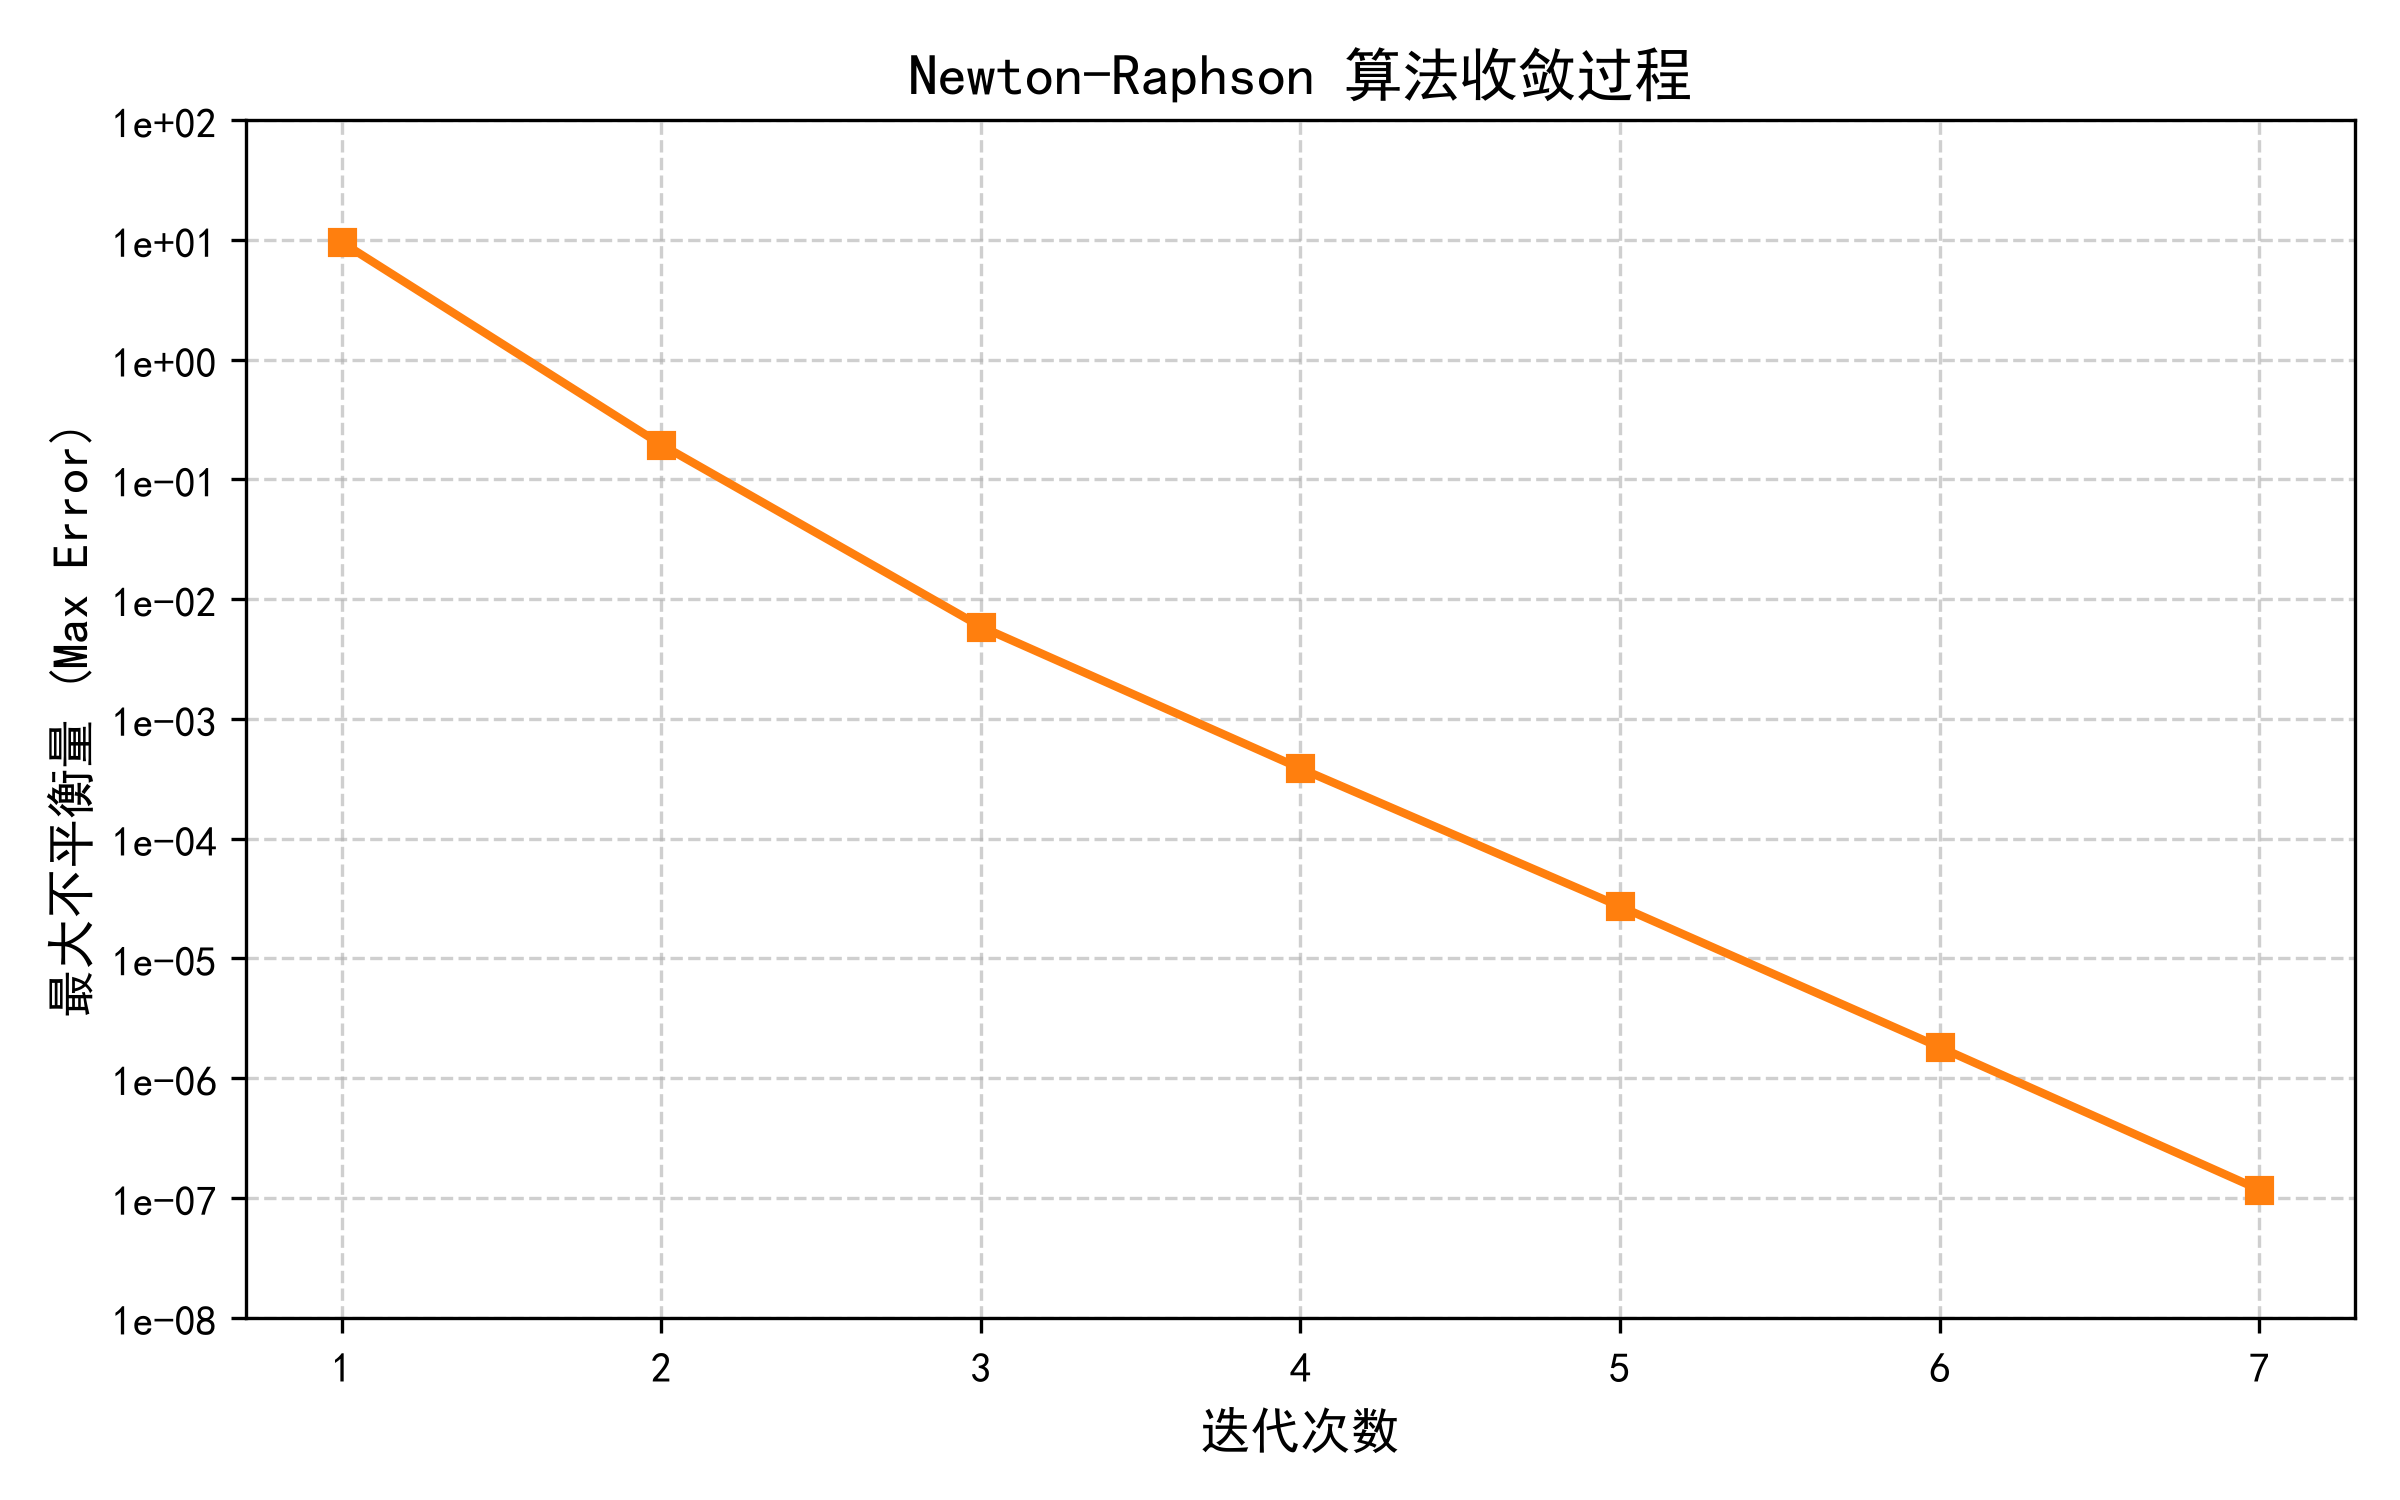
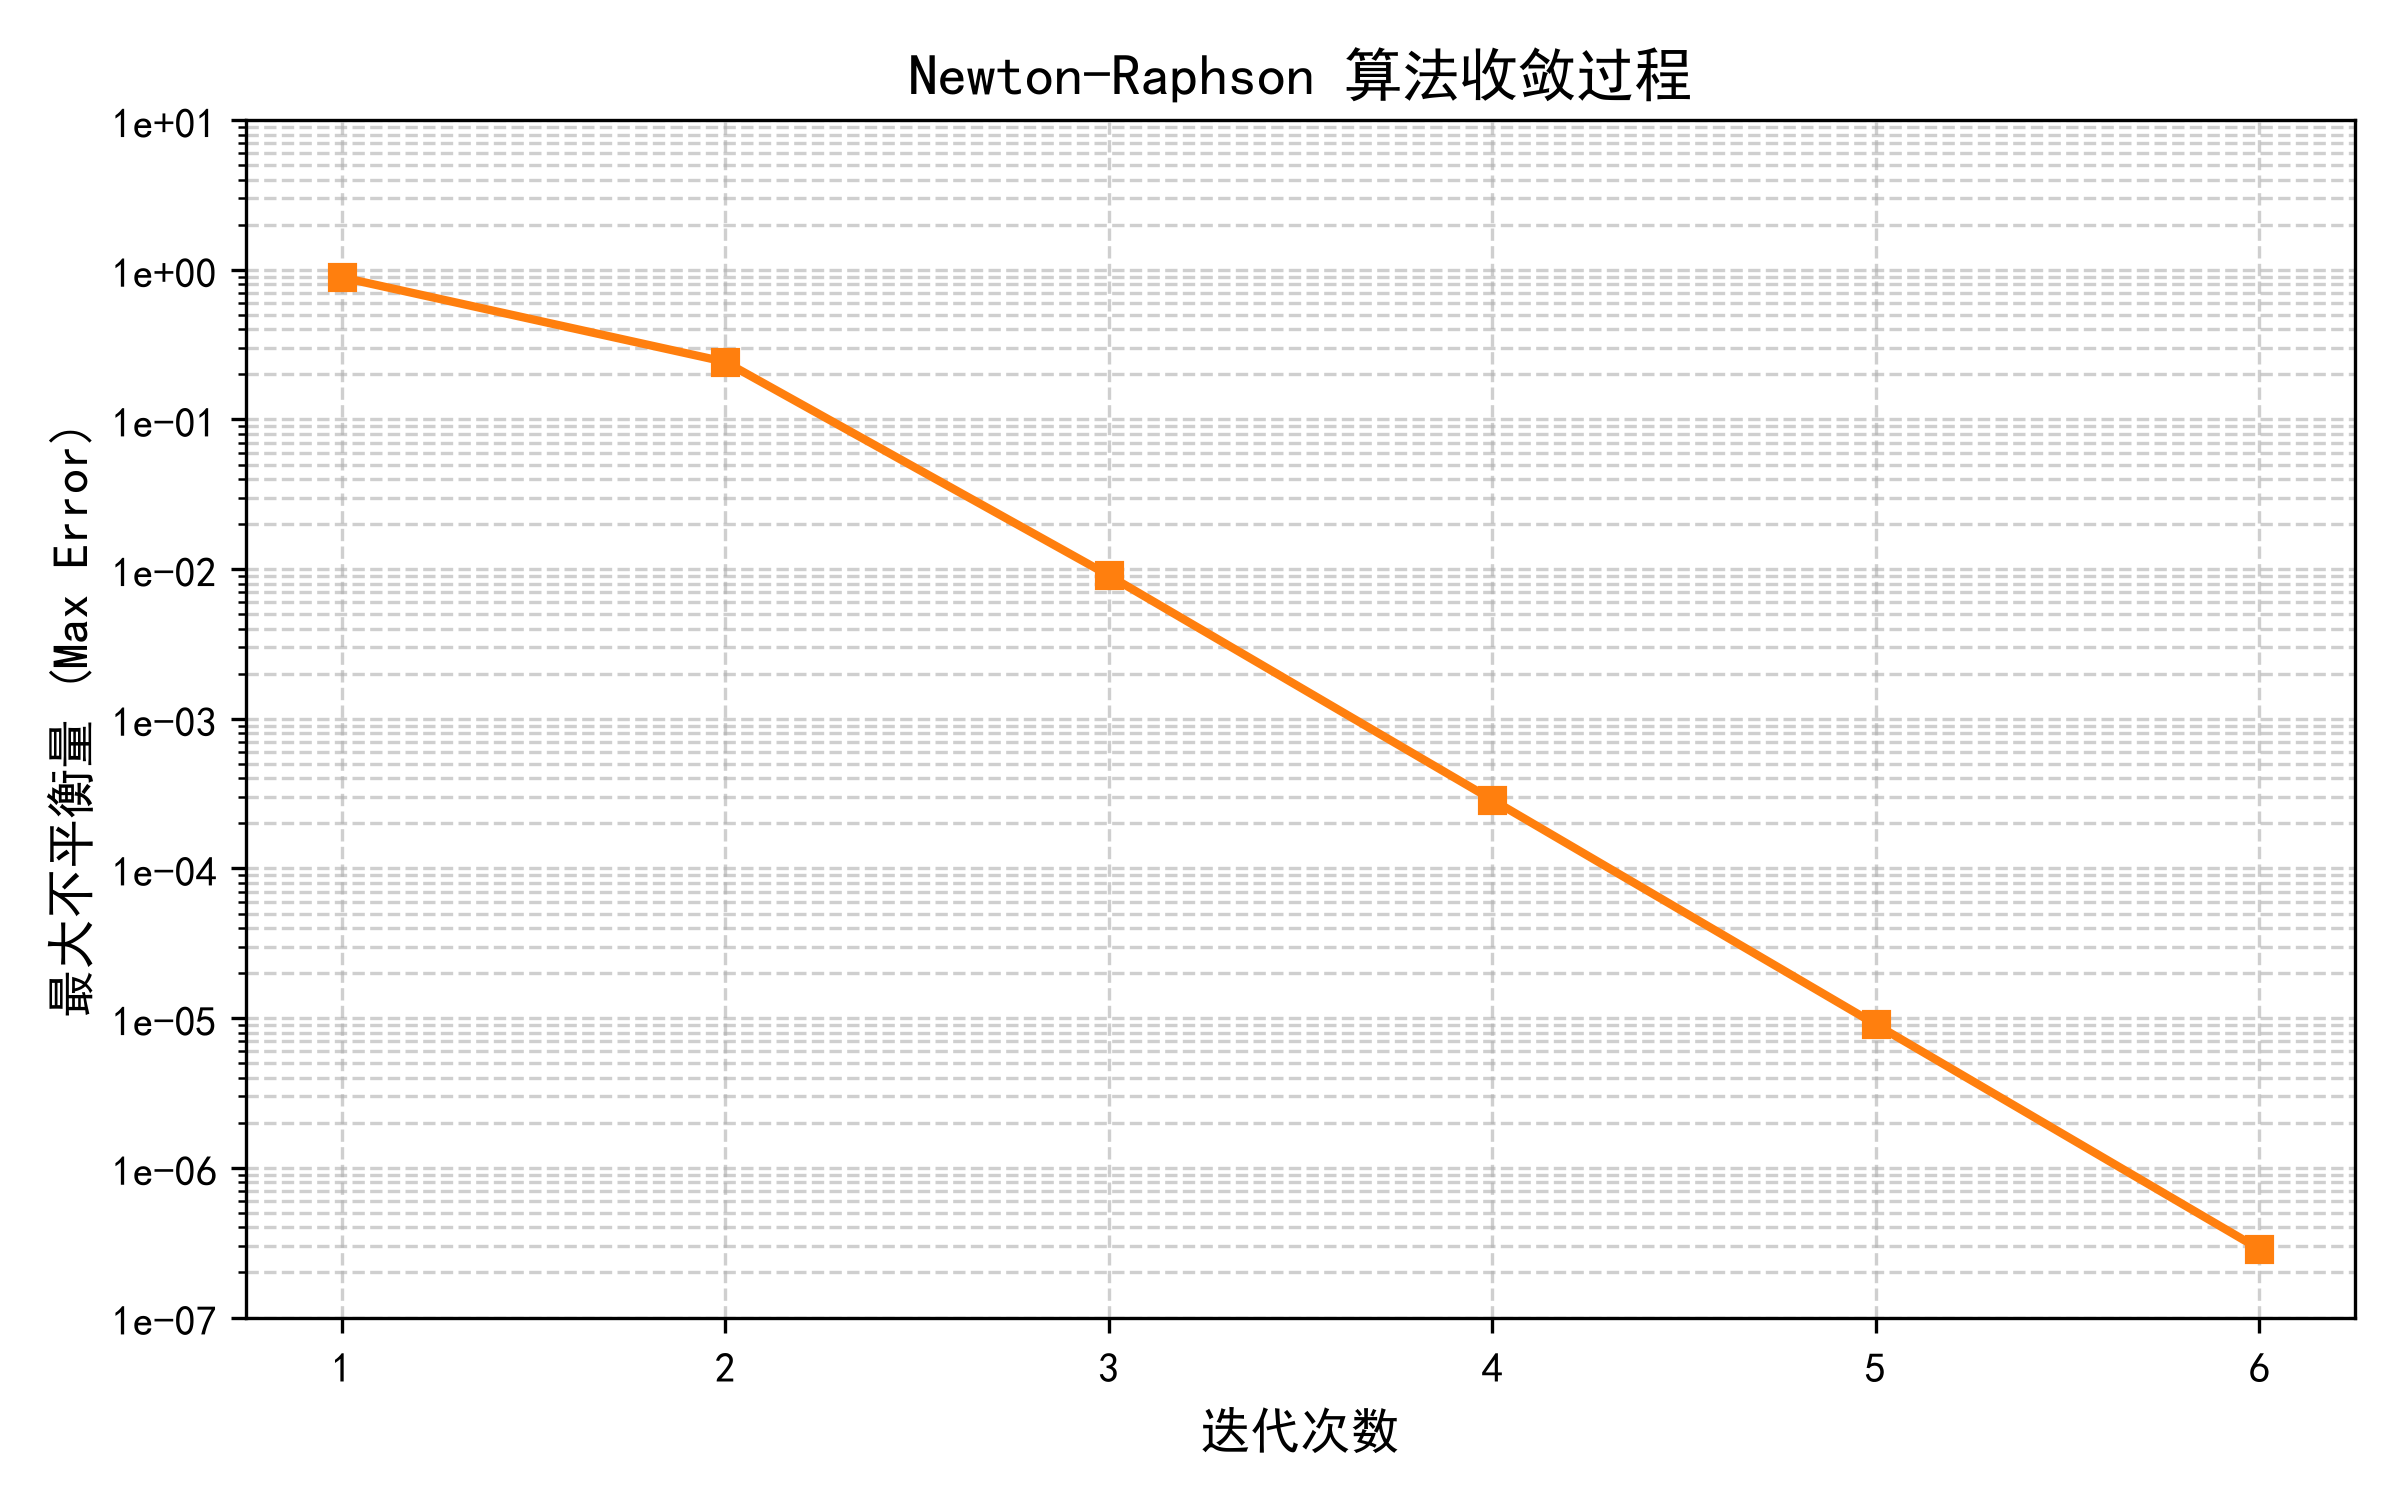
已更新框架成功跑通代码

Changed region(s): [[0.0312, 0.0613, 0.9688, 0.8587], [0.7812, 0.8893, 0.8125, 0.92]]

diff --git a/src/temporary/main.py b/src/temporary/main.py
@@ -1,0 +1,68 @@
+import numpy as np
+
+from src.read_data import parse_dat_txt
+from src.creat_y_bus import build_y_bus
+from src.creat_y_bus import print_matrix
+from src.power_mismatch import calc_power
+from src.power_mismatch import power_mismatch
+from src.calculate_jacobian import build_jacobian
+from src.Newton_Raphson import newton_raphson
+from src.plot_results import plot_results
+from src.threshold_check import check_threshold
+
+import matplotlib.pyplot as plt
+import os
+
+clc_precision = 1e-6
+file_path = "data/003ieee.txt"
+thresholds = {
+    'V': 0.001,          # 电压偏差不超过 pu
+    'theta_deg': 0.01,   # 相角偏差不超过 度
+    'P': 0.001,          # 有功偏差不超过 pu
+    'Q': 0.001           # 无功偏差不超过 pu
+}
+
+def main(clc_precision,file_path):
+
+    # 1. 读取数据
+    buses, branches = parse_dat_txt(file_path)
+    print(f"读取到 {len(buses)} 条母线，{len(branches)} 条支路")
+
+    # 2. 构建导纳矩阵并打印
+    Y, idx_map = build_y_bus(buses, branches, base_mva=100.0)
+    print("Ybus 矩阵构建完成，形状:", Y.shape)
+    print_matrix(Y, precision=4, title="节点导纳矩阵 Y")
+
+    # 3. 执行牛顿-拉夫逊潮流计算
+    V, theta_deg, P_calc, Q_calc, it = newton_raphson(
+        buses, branches, Y,
+        base_mva=100.0,
+        tol=clc_precision,
+        max_iter=20
+    )
+
+    # 4. 输出结果
+    if V is not None:
+        print(f"\n===== 潮流计算结果 ===== 精度：{clc_precision}")
+        print(f"{'节点':<6}{'V(pu)':>10}{'θ(deg)':>12}{'P_calc(pu)':>14}{'Q_calc(pu)':>14}")
+
+        for bus in buses:
+            bus_num = bus['number']
+            idx = idx_map[bus_num]
+            print(f"{bus_num:<6}{V[idx]:>10.4f}{theta_deg[idx]:>12.4f}"
+                  f"{P_calc[idx]:>14.4f}{Q_calc[idx]:>14.4f}")
+
+    else:
+        print("潮流计算不收敛或出错")
+
+    # 5. 生成图表
+    plot_results(buses, idx_map, V, theta_deg, P_calc, Q_calc, save_dir ="plots")
+
+    # 6.打印超差报告
+    check_threshold(buses, idx_map, V, theta_deg, P_calc, Q_calc,
+                    thresholds=thresholds, return_details=False)
+
+
+
+if __name__ == "__main__":
+    main(clc_precision, file_path)

diff --git a/src/io/parser.py b/src/io/parser.py
@@ -26,7 +26,6 @@ def special_type_deal(parts, type_idx):
 def parse_dat_txt(file_path):
     """
     解析 IEEE DAT 格式的母线与支路数据。
-    这里按当前仓库中临时版本的字段定义来解析，以尽量复现旧版结果。
     """
     if not os.path.exists(file_path):
         raise FileNotFoundError(f"错误：文件不存在 - {file_path}")
@@ -35,18 +34,50 @@ def parse_dat_txt(file_path):
         lines = [line.rstrip('\n') for line in f if line.strip() != '']
 
     bus_fields = [
-        'number', 'name', 'useless_num', 'area', 'zone', 'type',
-        'v_final', 'angle', 'load_mw', 'load_mvar',
-        'gen_mw', 'gen_mvar', 'base_kv', 'v_desired',
-        'max_q_v', 'min_q_v', 'g_shunt', 'b_shunt',
-        'remote_bus', 'extra'
+        'number',        # 母线编号（整数，唯一标识）
+        'name',          # 母线名称（字符串，如 "BusA"）
+        'useless_num',   # 无用占位编号（兼容旧格式）
+        'area',          # 区域编号（整数，用于经济调度分区）
+        'zone',          # 供电分区编号（整数，比 area 更细的子区域）
+        'type',          # 母线类型（整数，参考标准：1=PQ节点, 2=PV节点, 3=平衡节点(参考), 4=孤立节点）
+        'v_final',       # 最终电压幅值（标幺值 p.u.，潮流计算后的结果）
+        'angle_final',   # 最终电压相角（度，潮流计算后的结果）
+        'load_mw',       # 有功负荷（MW，该母线所接负荷的有功功率）
+        'load_mvar',     # 无功负荷（Mvar，该母线所接负荷的无功功率）
+        'gen_mw',        # 发电机有功出力（MW，该母线所接发电机的有功注入，正值为发出）
+        'gen_mvar',      # 发电机无功出力（Mvar，该母线所接发电机的无功注入，正值为发出）
+        'base_kv',       # 基准电压（kV，该母线的电压等级基准值）
+        'v_desired',     # 期望电压（标幺值 p.u.，用于电压控制的目标值，作为初始设定值）
+        'max_q_v',       # 无功出力上限（Mvar，该母线上发电机或无功补偿设备的最大无功注入量）
+        'min_q_v',       # 无功出力下限（Mvar，最小无功注入量，通常为负值表示吸收无功）
+        'g_shunt',       # 并联电导（标幺值 p.u.，母线对地并联支路的电导，通常为 0）
+        'b_shunt',       # 并联电纳（标幺值 p.u.，母线对地并联支路的电纳，用于补偿电容/电抗器）
+        'remote_bus',    # 远程控制母线编号（整数，用于该母线受远方母线电压控制时指定目标节点，0 表示无）
+        'extra'          # 预留附加备用字段（标准填 0，用于自定义扩展）
     ]
 
     branch_fields = [
-        'from_bus', 'to_bus', 'area', 'zone', 'type',
-        'r', 'x', 'b', 'rate1', 'rate2', 'rate3',
-        'control_bus', 'side', 'final_ratio', 'final_phase',
-        'v_min', 'v_max', 'step_size', 'phase_min', 'phase_max', 'extra'
+        'from_bus',      # 起始母线编号（整数）
+        'to_bus',        # 终止母线编号（整数）
+        'area',          # 区域编号（整数，用于经济调度分区）
+        'zone',          # 供电分区编号（整数，比area更细的子区域）
+        'type',          # 支路类型（1=输电线路, 2=固定变压器, 3=移相变压器）
+        'r',             # 串联电阻（标幺值 p.u.）
+        'x',             # 串联电抗（标幺值 p.u.）
+        'b',             # 总充电电纳（标幺值 p.u.；线路为对地电容，变压器通常为0）
+        'rate1',         # 长期连续额定容量（MVA，正常工况限额）
+        'rate2',         # 短期过载额定容量（MVA，N-1后短期紧急限额）
+        'rate3',         # 瞬时/紧急过载额定容量（MVA，极端瞬时限额，不用可填0）
+        'control_bus',   # 受控母线编号（0表示不参与电压控制，仅固定变比）
+        'side',          # 控制侧标识（1=控制作用在from侧, 2=控制作用在to侧）
+        'final_ratio',   # 最终变比幅值（标幺值 p.u.；固定变比数值 或 OPF计算出的理想值）
+        'final_phase',   # 最终移相角度（度；普通变压器/线路为0，移相器为计算出的角度）
+        'v_min',         # 受控母线电压下限（标幺值 p.u.，如 0.95）
+        'v_max',         # 受控母线电压上限（标幺值 p.u.，如 1.05）
+        'step_size',     # 有载调压分接头离散步长（标幺值 p.u.；0表示连续可调无级调节）
+        'phase_min',     # 移相角度可调下限（度；普通变压器填0，移相器如 -30°）
+        'phase_max',     # 移相角度可调上限（度；普通变压器填0，移相器如 +30°）
+        'extra'          # 预留附加备用字段（标准定义填0，可自定义扩展存储）
     ]
 
     buses = []
@@ -88,7 +119,7 @@ def parse_dat_txt(file_path):
                         bus[field] = 0.0
 
             bus['v_final'] = bus.get('v_final', 1.0)
-            bus['angle'] = bus.get('angle', 0.0)
+            bus['angle_final'] = bus.get('angle_final', bus.get('angle', 0.0))
             bus['load_mw'] = bus.get('load_mw', 0.0)
             bus['load_mvar'] = bus.get('load_mvar', 0.0)
             bus['gen_mw'] = bus.get('gen_mw', 0.0)

diff --git a/src/core/math_engine.py b/src/core/math_engine.py
@@ -1,5 +1,7 @@
 import numpy as np
 
+import numpy as np
+
 def build_y_bus(buses, branches, idx_map):
     """
     构建节点导纳矩阵 Y_bus 
@@ -14,14 +16,16 @@ def build_y_bus(buses, branches, idx_map):
         B_shunt = bus.get('b_shunt', 0.0)
         Y[i][i] += G_shunt + 1j * B_shunt
 
-    # 2. 处理支路（串联阻抗与对地充电电容）
-    for branch in branches:
-        i = idx_map[branch['from_bus']]
-        j = idx_map[branch['to_bus']]
+    # 2. 处理支路（串联阻抗与对地充电电容、变压器变比）
+    for br in branches:
+        i = idx_map[br['from_bus']]
+        j = idx_map[br['to_bus']]
         
-        r = branch.get('r', 0.0)
-        x = branch.get('x', 0.0)
-        b = branch.get('b', 0.0) # 线路充电电纳
+        r = br.get('r', 0.0)
+        x = br.get('x', 0.0)
+        b = br.get('b', 0.0)             # 线路充电电纳
+        br_type = br.get('type', 1)      # 1=线路, 2=变压器
+        tap = br.get('final_ratio', 1.0) # 变压器变比（标幺值）
         
         # 串联导纳
         z = r + 1j * x
@@ -31,14 +35,26 @@ def build_y_bus(buses, branches, idx_map):
             y_series = 1.0 / z
             
         # 填充非对角元和对角元
-        Y[i][j] -= y_series
-        Y[j][i] -= y_series
-        Y[i][i] += y_series + 1j * (b / 2.0)
-        Y[j][j] += y_series + 1j * (b / 2.0)
-        
-        # 注意：如果是变压器(含非标准变比 ratio)，需要在这里扩展逻辑
-        # Y[i][i] += y_series / (ratio**2)
-        # Y[i][j] -= y_series / ratio  ... 等等
+        if br_type == 2 and tap != 1.0:
+            if tap == 0:
+                print(f"Warning: Transformer branch {br['from_bus']}->{br['to_bus']} has tap=0, set to 1")
+                tap = 1.0
+            # 变压器模型：变比放在 from_bus 侧
+            Y[i][i] += y_series / (tap * tap)
+            Y[j][j] += y_series
+            Y[i][j] -= y_series / tap
+            Y[j][i] -= y_series / tap
+        else:
+            # 普通线路模型
+            Y[i][i] += y_series
+            Y[j][j] += y_series
+            Y[i][j] -= y_series
+            Y[j][i] -= y_series
+            
+        # 处理充电电纳（平分到两端）
+        if b != 0.0:
+            Y[i][i] += 1j * b / 2.0
+            Y[j][j] += 1j * b / 2.0
 
     return Y
 

diff --git a/src/io/reporter.py b/src/io/reporter.py
@@ -9,25 +9,28 @@ class ResultReporter:
 
     def print_node_results(self, info=None):
         """打印潮流计算终端结果表"""
-        print("\n" + "="*55)
+        print("\n" + "=" * 60)
         print("                 潮流计算最终结果")
-        print("-"*55)
+        print("-" * 60)
         
         if info:
             print(f"迭代次数: {info['iterations']}")
             print(f"总耗时  : {info['time_elapsed']:.4f} 秒")
-            print("-" * 55)
+            print("-" * 60)
 
-        print(f"{'节点':<8}{'电压 V(pu)':>12}{'相角 θ(deg)':>12}{'P计算(pu)':>12}{'Q计算(pu)':>12}")
-        print("-" * 55)
+        # 表头宽度：节点左对齐8，其余右对齐12（含小数点及符号）
+        header = (f"{'节点':<8}" f"{'电压 V.pu':<12}" f"{'相角 θ.deg':<12}"
+                f"{'有功 P.pu':<12}" f"{'无功 Q.pu':<12}")
+        print(header)
+        print("-" * 60)
 
         theta_deg = np.degrees(self.grid.theta)
         
         for i, bus in enumerate(self.grid.buses):
             bus_num = bus['number']
-            print(f"{bus_num:<8}{self.grid.V[i]:>12.4f}{theta_deg[i]:>12.4f}"
-                  f"{self.grid.P_calc[i]:>12.4f}{self.grid.Q_calc[i]:>12.4f}")
-        print("="*55 + "\n")
+            print(f"{bus_num:<6}{self.grid.V[i]:>12.4f}{theta_deg[i]:>14.4f}"
+                  f"{self.grid.P_calc[i]:>14.4f}{self.grid.Q_calc[i]:>14.4f}")
+        print("="*60 + "\n")
 
     def check_voltage_thresholds(self, v_max=1.05, v_min=0.95):
         """检查系统中是否存在电压越限的节点"""

diff --git a/main.py b/main.py
@@ -3,12 +3,12 @@ import os
 import sys
 import time
 from pathlib import Path
-
+# 设置项目根目录，确保自定义模块可以被正确导入
 PROJECT_ROOT = Path(__file__).resolve().parent
 if str(PROJECT_ROOT) not in sys.path:
     sys.path.insert(0, str(PROJECT_ROOT))
 
-# 导入我们精心设计的各个模块
+# 导入自定义模块
 from src.io.parser import parse_dat_txt
 from src.core.grid import PowerGrid
 from src.solvers.nr_solver import NewtonRaphsonSolver
@@ -16,11 +16,12 @@ from src.io.reporter import ResultReporter
 from src.io.plotter import GridPlotter
 
 def main():
+    
     print("=" * 60)
     print("                 Power_Flow - 潮流计算与可视化工具")
     
-    # 1. 设定测试用例（你可以随时换成 009ieee.txt 或 039ieee.txt）
-    file_path = "data/039ieee.txt"  # 请确保 data 文件夹下有这个文件
+    # 1. 设定测试用例
+    file_path = "data/003ieee.txt"  # 请确保 data 文件夹下有这个文件
     
     if not os.path.exists(file_path):
         print(f"[错误] 找不到数据文件: {file_path}")

diff --git a/src/temporary/read_data.py b/src/temporary/read_data.py
@@ -33,7 +33,7 @@ def parse_dat_txt(file_path):
     bus_fields = [
         'number', 'name', 'useless_num',
         'area', 'zone', 'type',
-        'v_final', 'angle',
+        'v_final', 'angle_final',
         'load_mw', 'load_mvar',
         'gen_mw', 'gen_mvar',
         'base_kv', 'v_desired',
@@ -43,7 +43,7 @@ def parse_dat_txt(file_path):
     ]
         # 一般大多无用，仅number，type，base_kv，v_desired为计算初值，
         # load_mw，load_mvar，gen_mw，gen_mvar为计算用
-        # max_q_v，max_q_v为计算限制，v_final，angle为已知计算结果，
+        # max_q_v，max_q_v为计算限制，v_final，angle_final为已知计算结果，
         # type可能为空，1=PQ, 2=PV, 3=平衡
 
 

diff --git a/src/core/grid.py b/src/core/grid.py
@@ -46,7 +46,7 @@ class PowerGrid:
             
             # 设置初值
             self.V[i] = bus.get('v_final', 1.0)
-            self.theta[i] = np.radians(bus.get('angle', 0.0))
+            self.theta[i] = np.radians(bus.get('angle_final', bus.get('angle', 0.0)))
             
             # 标幺化给定功率：P_spec = (P_gen - P_load) / S_base
             p_gen = bus.get('gen_mw', 0.0)